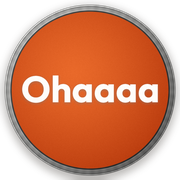
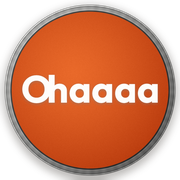
marka: O ile h birleşik yazılsın
Armada harfler artık tek tek çiziliyor ve O'dan sonra h içeri çekiliyor
(punto oranının %13,5'i kadar negatif kern). Tek seferde d.text(WORD)
çağırmak yazı tipinin varsayılan aralığını kullanır; oradan O-h çiftine
özel bir yaklaştırma yapılamazdı.

Başlıktaki canlı metinde aynı değer h'ye negatif margin olarak uygulanıyor;
sabit iki yerde de aynı (KERN_OH = 0.135) ve yorumla birbirine bağlandı.

ANIMASYON GRUPLANMASI
"Oh" artık TEK birim olarak hareket ediyor. Ayrı ayrı ölçeklenselerdi
büyürken aradaki bağ kopar, harfler birbirinden ayrılırdı — birleşik
yazmanın anlamı kalmazdı. Dalga 6 değil 5 birim: Oh + dört a, gecikme
birim başına 62 ms.

DOĞRULAMA GÜNCELLENDİ
Harf sayacı artık 6 değil 5 blok bekliyor ("Oh" birleşik olduğu için tek
blok sayılır) ve dört 'a'yı ayrı ölçüyor. Yeni ölçüm: 5 blok, a'lar
112/112/112/112 piksel.

Ölçüler yeniden ayarlandı: kern uygulanınca yazı daraldığı için asıldaki
oran 0,753'ten 0,751'e, dikey kayma -0,005'ten -0,006'ya taşındı; canlı
metnin punto katsayısı buna göre yeniden ölçüldü (ölçülen 0,7483).

Doğrulama: hover'da 5 animasyon, prefers-reduced-motion altında 0.
320-390 pikselde taşma yok. Mobilde logo tıklaması ana sayfaya gidiyor.
116 birim testi ve derleme geçiyor.

Claude-Session: https://claude.ai/code/session_01UX7fCom5DN1Jyb9VvyAeSS

Changed region(s): [[0.1389, 0.3889, 0.8889, 0.5833], [0.1389, 0.4722, 0.1667, 0.5278], [0.8333, 0.5, 0.8611, 0.5278]]

diff --git a/apps/web/src/components/Logo.tsx b/apps/web/src/components/Logo.tsx
@@ -24,14 +24,22 @@ import { useCallback, useRef, useState } from 'react';
  * süre dolunca kaldırılıyor: parmak kalksa bile animasyon tamamlanır.
  */
 
-const LETTERS = ['O', 'h', 'a', 'a', 'a', 'a'];
+/*
+ * "Oh" TEK parça: armada O ile h birleşik çiziliyor (negatif kern), o yüzden
+ * burada da tek birim olarak hareket etmeli. Ayrı ayrı ölçeklenselerdi
+ * büyürken aradaki bağ kopar ve harfler birbirinden ayrılırdı.
+ */
+const UNITS = ['Oh', 'a', 'a', 'a', 'a'];
+
+/** O ile h arasındaki yaklaştırma — make-badge.py'deki KERN_OH ile aynı. */
+const KERN_OH = 0.135;
 
 // Armadan ölçülen oranlar (bkz. assets/brand/ohaaaa-word-1024.png)
-const WORD_WIDTH_RATIO = 0.753; // yazı genişliği / arma genişliği (asıldan ölçüldü)
+const WORD_WIDTH_RATIO = 0.751; // yazı genişliği / arma genişliği (asıldan ölçüldü)
 // Punto katsayısı: canlı metin tarayıcıda ölçülüp asıldaki 0,753 oranına
 // oturtuldu. Yazı tipi metriklerinden hesaplamak yerine ölçmek daha güvenli;
 // Outfit'in ascender oranı sürümle değişebilir.
-const WORD_SHIFT_RATIO = -0.005; // dikey kayma / arma yüksekliği
+const WORD_SHIFT_RATIO = -0.006; // dikey kayma / arma yüksekliği
 
 /** Son harfin animasyonu bitene kadar geçen süre. */
 const TAP_MS = 640;
@@ -65,16 +73,23 @@ export function Logo({ className = '' }: { className?: string }) {
           style={{
             transform: `translateY(${WORD_SHIFT_RATIO * 100}%)`,
             fontFamily: 'var(--font-outfit), sans-serif',
-            fontSize: `${WORD_WIDTH_RATIO * 0.2706 * 36}px`,
+            fontSize: `${WORD_WIDTH_RATIO * 0.2795 * 36}px`,
           }}
         >
-          {LETTERS.map((ch, i) => (
+          {UNITS.map((ch, i) => (
             <span
               key={`${ch}-${i}`}
               className="oha-letter"
-              style={{ animationDelay: `${i * 55}ms` }}
+              style={{ animationDelay: `${i * 62}ms` }}
             >
-              {ch}
+              {ch === 'Oh' ? (
+                <>
+                  O
+                  <span style={{ marginLeft: `-${KERN_OH}em` }}>h</span>
+                </>
+              ) : (
+                ch
+              )}
             </span>
           ))}
         </span>

diff --git a/scripts/make-badge.py b/scripts/make-badge.py
@@ -47,6 +47,11 @@ WORD = BRAND
 #   3. Harflerde 3B pah YOK. Pah ve yan yuz, 32 pikselde harfin kendisinden
 #      kalin kalir ve konturu yer. Duz beyaz + hafif golge daha okunakli.
 ANGLE = 0                     # yatay: kucuk boyutta en net okunan
+
+# O ile h arasindaki yaklastirma (punto orani). Iki harf birbirine degsin
+# diye negatif kern uygulanir; deger olcerek bulundu (asagidaki dogrulama
+# artik 6 degil 5 harf blogu bekler: "Oh" tek blok sayilir).
+KERN_OH = 0.135
 R_SHADOW = 496
 R_RIM_OUT = 486               # gumus cember disi
 R_RIM_IN = 452                # gumus cember ici (once 438 - cember inceldi)
@@ -142,7 +147,18 @@ def render_word(size_px, angle_deg):
     pad = size_px
     tmp = Image.new('L', (int(size_px * len(WORD) * 1.1) + pad * 2, size_px * 3), 0)
     d = ImageDraw.Draw(tmp)
-    d.text((pad, pad), WORD, font=font, fill=255)
+
+    # Harfler TEK TEK ciziliyor, cunku O ile h'nin BIRLESMESI isteniyor.
+    # Tek seferde d.text(WORD) cagirmak yazi tipinin varsayilan araligini
+    # kullanir; oradan O-h ciftine ozel bir yaklastirma yapilamaz.
+    x = float(pad)
+    for i, ch in enumerate(WORD):
+        d.text((x, pad), ch, font=font, fill=255)
+        x += font.getlength(ch)
+        if i == 0:
+            # O'dan sonra h'yi iceri cek: iki harf birbirine degsin.
+            x -= size_px * KERN_OH
+
     bbox = tmp.getbbox()
     glyphs = tmp.crop(bbox)
 
@@ -206,20 +222,23 @@ def verify_letters(badge, angle_deg=0):
     if start is not None and len(col) - start > 8:
         runs.append(len(col) - start)
 
-    if len(runs) != len(BRAND):
+    # O ile h birlesik cizildigi icin tek blok sayilir: 6 harf -> 5 blok.
+    expected = len(BRAND) - 1
+    if len(runs) != expected:
         raise SystemExit(
-            f'  DUR: goruntude {len(runs)} harf blogu var, {len(BRAND)} olmali.\n'
+            f'  DUR: goruntude {len(runs)} harf blogu var, {expected} olmali\n'
+            '       ("Oh" birlesik oldugu icin tek blok sayilir).\n'
             f'       Blok genislikleri: {runs}\n'
             '       Harfler birlesmis ya da bir harf eksik cizilmis olabilir.')
 
-    # Son dort blok 'a' - genislikleri birbirine yakin olmali
-    widths = runs[2:]
+    # Ilk blok "Oh"; kalan dortu 'a'.
+    widths = runs[1:]
     if len(widths) != BRAND.count('a'):
         raise SystemExit(f'  DUR: {len(widths)} adet a blogu, {BRAND.count("a")} olmali.')
     if max(widths) - min(widths) > max(widths) * 0.12:
         raise SystemExit(f'  DUR: a harfleri esit genislikte degil: {widths}')
 
-    print(f'  harf blogu: {len(runs)} = {", ".join(BRAND)}  |  a genislikleri {widths}')
+    print(f'  harf blogu: {len(runs)} (Oh + {len(widths)} adet a)  |  a genislikleri {widths}')
 
 
 def main() -> None:
